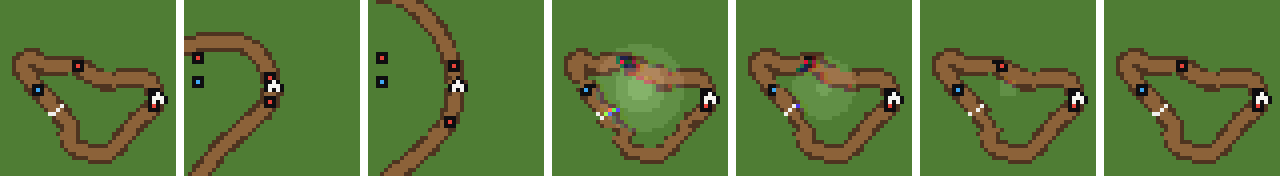
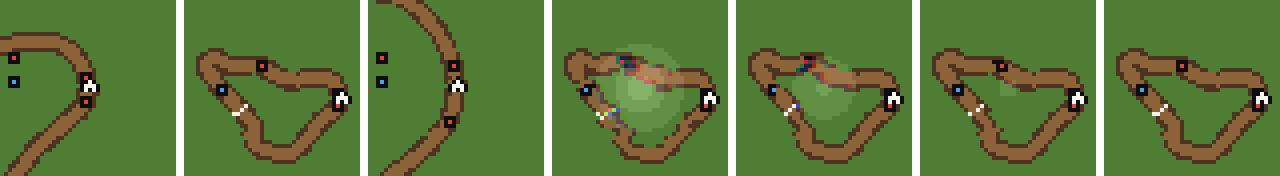
MiniMap 1.2.1: GPS starts at the middle zoom; hand and screen in front
From the owner's first test of 1.2.0:

- Zoom: the GPS starts at the middle view and right click goes out,
  in, then back to the middle. Races: lap image zoom 2, 1, 4. Open
  World: ViewTiles, twice that, half that; Race keeps tiles out to the
  widest view shown.
- The pointing hand sank behind the screen: Grabber rests the hand
  for a Clickable (no Grabbable) exactly on the collider's plane. The
  collider now sits on a child 0.1 in front of the screen, the offset
  most levers give the hand.
- The screen fought its casing when the camera turned: the two were
  in one plane, and the dash's lit sprites write depth. The screen now
  stands 0.02 in front, toward the cockpit camera.

Claude-Session: https://claude.ai/code/session_011prJR5CAuVuxhGnB8XutU5

Changed region(s): [[0.0, 0.1705, 0.2812, 1.0]]

diff --git a/MiniMap/src/GpsScreen.cs b/MiniMap/src/GpsScreen.cs
@@ -11,7 +11,12 @@ namespace HalfGripMiniMap
 	/// and place on the dash can be tuned without restarting.
 	///
 	/// The cockpit hand can poke the screen as it can the main menu's: a left click only taps it (the menu's tap, see
-	/// <see cref="PixelMap.Tap"/>, and its sound), a right click taps it and steps to the next of <see cref="Zooms"/> views.
+	/// <see cref="PixelMap.Tap"/>, and its sound), a right click taps it and steps to the next of <see cref="Zooms"/> views: from the
+	/// middle one out, then in, then back.
+	///
+	/// The dash's sprites are lit and write depth, so parts in the same plane fight once the camera turns (looking over a shoulder): the
+	/// game keeps its stacked parts apart in depth, and so the screen stands a little in front of its casing. For the same reason the
+	/// touch target stands in front of the screen: the hand pointing at a clickable rests on its plane.
 	/// </summary>
 	internal sealed class GpsScreen : MonoBehaviour
 	{
@@ -32,11 +37,24 @@ namespace HalfGripMiniMap
 		private bool failed;
 		private float tappedAt = float.NegativeInfinity;
 
-		/// <summary>The views a right click steps through: the whole lap (in the Open World, <c>OpenWorld.ViewTiles</c> across), then two and four times closer, round the car.</summary>
+		/// <summary>
+		/// The views a right click steps through, the first shown first: in races the lap twice the size of the whole lap round the car,
+		/// then the whole lap, then four times; in the Open World <c>OpenWorld.ViewTiles</c> across, then twice and half that.
+		/// </summary>
 		private const int Zooms = 3;
+		private static readonly int[] LapZooms = { 2, 1, 4 };
+		private static readonly float[] WorldZooms = { 1f, 0.5f, 2f };
+		private static readonly string[] ZoomNames = { "middle", "out", "in" };
 		/// <summary>The view the GPS shows, kept from race to race for the session (not saved), like the screen minimap's K.</summary>
 		private static int zoomLevel;
-		private static int Zoom => 1 << zoomLevel;
+
+		/// <summary>How many times wider than <c>OpenWorld.ViewTiles</c> the GPS shows the Open World now: the tiles <see cref="Race"/> keeps must reach that far.</summary>
+		internal static float WorldWiden => 1f / WorldZooms[zoomLevel];
+
+		/// <summary>World distance the screen stands in front of its casing: well under a cockpit pixel, but clear of the depth buffer's precision.</summary>
+		private const float ScreenLift = 0.02f;
+		/// <summary>World distance the touch target stands in front of the screen, where the pointing hand rests: what most of the game's levers give the hand (Grabbable.handIndicatorCameraOffset).</summary>
+		private const float TouchLift = 0.1f;
 
 		private void Start()
 		{
@@ -155,15 +173,21 @@ namespace HalfGripMiniMap
 			map.Blank(NoSignal);
 			map.Upload();
 			screenSprite = Sprite.Create(map.Texture, new Rect(0, 0, screen, screen), new Vector2(0.5f, 0.5f), ScreenDetail / texel, 0, SpriteMeshType.FullRect);
-			Vector3 middle = foot + new Vector3((casing.ScreenX + hole * 0.5f - casing.Width * 0.5f) * texel, (casing.ScreenY + hole * 0.5f) * texel, 0f);
+			float toward = Toward();
+			float perUnit = Mathf.Max(1e-5f, Mathf.Abs(transform.lossyScale.z));
+			Vector3 middle = foot + new Vector3((casing.ScreenX + hole * 0.5f - casing.Width * 0.5f) * texel, (casing.ScreenY + hole * 0.5f) * texel, toward * ScreenLift / perUnit);
 			screenPart = Part("Screen", screenSprite, material, middle, 1, layer).gameObject;
-			// Exactly the screen, no wider (the hand's grab tolerance scales hitBoxExpand), in the dash's plane like its levers' colliders.
-			InteriorSquareCollider target = screenPart.AddComponent<InteriorSquareCollider>();
+			// Exactly the screen, no wider (the hand's grab tolerance scales hitBoxExpand), facing the way the dash's levers' colliders do.
+			GameObject touch = new GameObject("Touch");
+			touch.layer = layer;
+			touch.transform.SetParent(screenPart.transform, false);
+			touch.transform.localPosition = new Vector3(0f, 0f, toward * TouchLift / perUnit);
+			InteriorSquareCollider target = touch.AddComponent<InteriorSquareCollider>();
 			target.width = target.height = hole * texel;
 			target.hitBoxExpand = 0f;
 			target.localNormalPlane = Vector3.forward;
 			target.sortingLayer = 0;
-			GpsButton button = screenPart.AddComponent<GpsButton>();
+			GpsButton button = touch.AddComponent<GpsButton>();
 			button.attachedCollider = target;
 			button.Left = Tap;
 			button.Right = NextZoom;
@@ -207,6 +231,24 @@ namespace HalfGripMiniMap
 				}
 			}
 			Mod.Info(text.ToString());
+		}
+
+		/// <summary>
+		/// Which way along the GPS's own z the cockpit camera is, +1 or -1: in front of the dash is toward it. The game's dash has it at -z
+		/// (parts drawn over others sit at lower z), which is the answer when there is no camera to ask.
+		/// </summary>
+		private float Toward()
+		{
+			Grabber hand = FindFirstObjectByType<Grabber>();
+			Camera cam = hand != null && hand.viewCamera != null ? hand.viewCamera : Camera.main;
+			if (cam == null)
+			{
+				Mod.Info("GPS: no cockpit camera found; the dash's front is taken to be -z");
+				return -1f;
+			}
+			float z = transform.InverseTransformPoint(cam.transform.position).z;
+			Mod.Info("GPS: the cockpit camera '" + cam.name + "' is at " + z.ToString("0.00") + " along the GPS's z");
+			return z > 0f ? 1f : -1f;
 		}
 
 		private SpriteRenderer Part(string name, Sprite sprite, Material material, Vector3 position, int above, int layer)
@@ -255,11 +297,11 @@ namespace HalfGripMiniMap
 				Race.Tick();
 				if (Race.Ready && Race.OpenWorld)
 				{
-					map.DrawLocal(OpenWorldLink.Tiles, Race.Palette, Race.Heading, Race.MetresPerPixel(map, Zoom), Race.Player, Race.Cars);
+					map.DrawLocal(OpenWorldLink.Tiles, Race.Palette, Race.Heading, Race.MetresPerPixel(map, WorldZooms[zoomLevel]), Race.Player, Race.Cars);
 				}
 				else if (Race.Ready)
 				{
-					map.Draw(lap.Get(map.Size, map.Room, Zoom), Race.Palette, Race.Heading, Race.Player, Race.Cars);
+					map.Draw(lap.Get(map.Size, map.Room, LapZooms[zoomLevel]), Race.Palette, Race.Heading, Race.Player, Race.Cars);
 				}
 				else
 				{
@@ -287,7 +329,7 @@ namespace HalfGripMiniMap
 		{
 			Tap();
 			zoomLevel = (zoomLevel + 1) % Zooms;
-			Mod.Info("GPS: zoom " + Zoom + (zoomLevel == 0 ? " (the whole view)" : " (round the car)"));
+			Mod.Info("GPS: zoomed " + ZoomNames[zoomLevel] + " (lap " + LapZooms[zoomLevel] + "x, Open World " + (Mod.ViewTiles.Value / WorldZooms[zoomLevel]).ToString("0.0") + " tiles across)");
 		}
 
 		/// <summary>Takes down the parts, textures and sprites of the last build.</summary>

diff --git a/MiniMap/src/Race.cs b/MiniMap/src/Race.cs
@@ -38,10 +38,10 @@ namespace HalfGripMiniMap
 
 		/// <summary>
 		/// Metres to a pixel of a map showing the Open World: <c>OpenWorld.ViewTiles</c> tiles across the inside of its rim, so the screen
-		/// minimap and the GPS show the same stretch of country at their own resolutions; <paramref name="zoom"/> times less at the GPS's
-		/// closer views.
+		/// minimap and the GPS show the same stretch of country at their own resolutions; <paramref name="zoom"/> times closer at the GPS's
+		/// other views (0.5 is twice as far out).
 		/// </summary>
-		internal static float MetresPerPixel(PixelMap map, int zoom = 1) => Mod.ViewTiles.Value * OpenWorldLink.Tiles.TileSize / Mathf.Max(8, map.Size - 2 * map.Room) / Mathf.Max(1, zoom);
+		internal static float MetresPerPixel(PixelMap map, float zoom = 1f) => Mod.ViewTiles.Value * OpenWorldLink.Tiles.TileSize / Mathf.Max(8, map.Size - 2 * map.Room) / Mathf.Max(0.1f, zoom);
 
 		internal static void OnSceneLoaded(Scene loaded)
 		{
@@ -70,8 +70,9 @@ namespace HalfGripMiniMap
 				Gather();
 				if (OpenWorld)
 				{
-					// Corners of the square GPS reach half as far again as its sides, and a pixel's looks a little past them.
-					OpenWorldLink.Update(Player, Mod.ViewTiles.Value * OpenWorldLink.Tiles.TileSize * 0.75f + 10f);
+					// Corners of the square GPS reach half as far again as its sides, and a pixel's looks a little past them. The GPS
+					// zoomed out shows more.
+					OpenWorldLink.Update(Player, Mod.ViewTiles.Value * Mathf.Max(1f, GpsScreen.WorldWiden) * OpenWorldLink.Tiles.TileSize * 0.75f + 10f);
 				}
 			}
 		}

diff --git a/tools/preview/Program.cs b/tools/preview/Program.cs
@@ -27,7 +27,7 @@ namespace HalfGripMiniMap
 	///   gps-dash.png  the GPS as on the dash (38 casing pixels wide, the screen at twice that resolution), 4x
 	///   gps-icon.png  the shop icon (26x24, as Gps.IconWidth/IconHeight), 6x
 	///   icon.png      the mod's picture for the mod manager, 128x128: copy it to MiniMap/icon.png
-	///   gps-zoom.png  the GPS screen at its three zooms, then a tap on it 0, 0.1, 0.2 and 0.35 s on, 4x
+	///   gps-zoom.png  the GPS screen at its three zooms in the order a right click steps (2x, whole lap, 4x), then a tap on it 0, 0.1, 0.2 and 0.35 s on, 4x
 	/// and checks that the shop icon is not blank. docs/gps.png was put together from the first two.
 	/// </summary>
 	internal static class Program
@@ -100,12 +100,12 @@ namespace HalfGripMiniMap
 			Png.Save(path, px, w, h, 4);
 		}
 
-		/// <summary>The dash GPS's screen at zooms 1, 2 and 4, then at zoom 1 at four moments of a tap, side by side with a gap of 2.</summary>
+		/// <summary>The dash GPS's screen at zooms 2 (the first view), 1 and 4, then at zoom 1 at four moments of a tap, side by side with a gap of 2.</summary>
 		private static void Zooms(List<Vector3> pts, string path)
 		{
 			int screen = (38 - GpsArt.Dash.ExtraWidth) * 2;
 			List<PixelMap> maps = new List<PixelMap>();
-			foreach (int zoom in new[] { 1, 2, 4 })
+			foreach (int zoom in new[] { 2, 1, 4 })
 			{
 				maps.Add(Screen(pts, screen, 260, zoom));
 			}

diff --git a/CLAUDE.md b/CLAUDE.md
@@ -19,7 +19,7 @@ player's car, with a marker per car (in the Open World mod, the country round th
 | `Race.cs` | Shared by both maps: finds the race's `TrackManager`, bumps `Version` when `lapManager.trackLine` or the colours change, gathers the cars each frame; `LapCache` keeps each map's `TrackImage` |
 | `MiniMapHud.cs` | The screen minimap: a round `PixelMap` on an overlay canvas in a corner |
 | `Gps.cs` | The GPS item: a clone of the magnet item (no code of its own, MEDIUM, module mount) with its exterior and stats stripped, a new interior prefab and a drawn icon |
-| `GpsScreen.cs` | The GPS on the dash (made by the game's `LoadoutSpawner` from the prefab): measures the cockpit's pixel size (median over the dash's sprites, about 0.05 units), then a casing sprite at that size and a square `PixelMap` screen at twice its resolution, the screen in the unlit sprite material, the casing in its own copy of the lit `SpriteLit` with its texture set (the Lit shader reads the material's `_BaseMap`, so each dash sprite has its own copy); the zoom (1, 2, 4, session only) and the tap's time |
+| `GpsScreen.cs` | The GPS on the dash (made by the game's `LoadoutSpawner` from the prefab): measures the cockpit's pixel size (median over the dash's sprites, about 0.05 units), then a casing sprite at that size and a square `PixelMap` screen at twice its resolution, the screen in the unlit sprite material, the casing in its own copy of the lit `SpriteLit` with its texture set (the Lit shader reads the material's `_BaseMap`, so each dash sprite has its own copy); the zoom (middle, out, in; session only), the tap's time; the screen stands 0.02 in front of the casing and the touch collider 0.1 in front of the screen |
 | `GpsTap.cs` | Poking the GPS: `GpsButton`, the game's own `Clickable` (with an `InteriorSquareCollider` the size of the screen, put on by `GpsScreen`), which the cockpit hand clicks left (tap) and right (tap and next zoom); and the main menu's `ScreenTap` clip, found among the loaded assets at scene loads and kept in a static field |
 | `GpsArt.cs` | The GPS casing (grey speckled plastic box with top and side faces on a base plate, after the jumper's key cap) and shop icon, drawn as pixel arrays |
 | `TrackImage.cs` | The lap from above in flat palette colours (ground, road, edge lines, start line) at 4x the minimap's resolution, fitted inside the round window |
@@ -102,25 +102,32 @@ loop. While its `MapView.Active` is true, `Race.OpenWorld` is set and both maps 
   `Streamer.MapPicture`). Look at it after any change to the local map.
 - Not done, still open with the owner: zooming out with speed, and a north-up choice (the player's arrow would then have to turn).
 
-## The GPS tap and zoom (1.2.0)
+## The GPS tap and zoom (1.2.0, 1.2.1)
 
 - The main menu's tap is `VhsScreenTap` (sets `_VhsTap` for the full-screen VHS shader, `VhsRendererFeature`) and a VariedSound with
   the clip `ScreenTap` (pitch +-0.5). The shader works on the whole camera image and no race scene has a `VhsEffect` volume, so
   `PixelMap.Tap` redoes it on the map's pixels: bulge, row tear and red/blue split by whole pixels, light in 3 hard steps, eased over
   the menu's 0.45 s, from the screen's middle (the hand points at the screen, not at a place on it).
-- Zoom: `TrackImage.Build(..., zoom)` draws the lap 2 or 4 times bigger with fewer image pixels per map pixel (8/zoom, at most 4), so
+- Zoom: the GPS starts at the middle view; right click goes out, in, back to the middle (lap image zoom 2, 1, 4; Open World
+  `ViewTiles` times 1, 2, 0.5, and `Race` keeps tiles out to the widest shown). `TrackImage.Build(..., zoom)` draws the lap 2 or 4 times bigger with fewer image pixels per map pixel (8/zoom, at most 4), so
   the image is 4 times the whole lap's at either closer view; `PixelMap.Draw` then centres on the player and pins far cars to the
   rim. Zoom 1 is byte-identical to 1.1.0 (checked with `tools/preview`). Open World: `MetresPerPixel(map, zoom)`.
+- Depth: the dash's lit sprites write depth, so the GPS's screen and casing in one plane fought when the camera turned (owner's
+  first test). The game keeps its stacked parts apart in depth (toward the camera is -z on the dash); the screen now stands 0.02
+  world units in front of the casing, the way found from the cockpit camera (`Grabber.viewCamera`). The hand pointing at a
+  `Clickable` with no `Grabbable` rests exactly on the collider's plane (`Grabber.TowardCamera(..., 0)`), so it sank behind the
+  screen: the collider is on a child `Touch` 0.1 in front of the screen (the levers' `handIndicatorCameraOffset`).
 
 ## Status (keep current)
 
-- **Released:** 1.1.0 on `main` (PR #11, merged): Open World mode for both maps.
-- **Open:** 1.2.0 on `claude/vibrant-turing-3uafvm`: poke the GPS (left click taps it, right click taps and zooms 1x/2x/4x, in races
-  and the Open World), PR #13. Compiles; preview pictures checked. Not yet tested in game.
-- **Waiting on the owner:** an in-game test of 1.2.0: does the hand turn to its pointing pose over the GPS screen and do both clicks
-  work (also with a gamepad), is the tap sound heard (log: `kept the main menu's tap sound`) and at the cockpit's volume, does the
-  zoom read well in a race and in the Open World. Also still the first Open World test of 1.1.0 (screenshots of both maps, the log
-  should have `linked to the Open World's map` and `an Open World race`).
+- **Released:** 1.2.0 on `main` (PR #13, merged): poke the GPS (left click taps, right click taps and zooms).
+- **Open:** 1.2.1 on `claude/vibrant-turing-3uafvm` (PR below): after the owner's first test of 1.2.0, the GPS starts at the middle
+  view and right click goes out, in, back (done); the hand sank behind the screen after a moment (collider moved in front, done);
+  the screen fought its casing when leaning (screen lifted in front of it, done). Compiles; preview checked; not tested in game.
+- **Waiting on the owner:** an in-game test of 1.2.1: the hand stays in front of the screen, no fighting when looking over a
+  shoulder, the zoom order, the tap sound (log: `kept the main menu's tap sound`), a gamepad if there is one. The log also says
+  where the cockpit camera was found (`the cockpit camera ... along the GPS's z`; it should be negative). Also still the first Open
+  World test (screenshots of both maps; the log should have `linked to the Open World's map` and `an Open World race`).
 - **Open questions for the owner:** zoom out with speed? A north-up option? (Both left out: heading-up, fixed window.)
 - **Known, not yet fixed:** `tools/preview` no longer reproduces the committed `MiniMap/icon.png` exactly (160 pixels differ, round
   the car markers). It was so on `main` before 1.1.0, and 1.1.0's output is byte-identical to the old code's, so the cause is in the

diff --git a/README.md b/README.md
@@ -1,6 +1,6 @@
 # MiniMap for Half Grip
 
-**Version 1.2.0** · for Half Grip Demo 0.418 · needs [HalfGripTools](https://github.com/4l3x4nd3r0/HalfGripTools) 1.0.2 or newer
+**Version 1.2.1** · for Half Grip Demo 0.418 · needs [HalfGripTools](https://github.com/4l3x4nd3r0/HalfGripTools) 1.0.2 or newer
 
 A pixel-art map of the whole lap that turns with your car and shows every racer. Buy a **GPS** for your dash, or switch on the
 **screen minimap**. It works on every map: the game's own, [ProcTrack](https://github.com/htubdawg/ProcTrack)'s procedural maps, and
@@ -18,10 +18,11 @@ the slow-mo buttons. Its screen shows the map: the whole lap turned so the way y
 as red dots and other players as blue dots. It has no other effect, so it costs you a module slot and a little money.
 
 You can poke its screen with the cockpit hand, like the screen in the main menu: the picture bulges, tears and lights up where you
-tap, with the menu's tap sound. A **left click** only taps it. A **right click** taps it and zooms: the whole lap, then two and four
-times closer with your car in the middle (other cars out of sight wait at the rim), then back to the whole lap. In the Open World
-the three zooms are `OpenWorld.ViewTiles` across, then half and a quarter of that. The zoom stays as you left it until you quit the
-game. The screen minimap does not zoom.
+tap, with the menu's tap sound. A **left click** only taps it. A **right click** taps it and zooms. The GPS starts in the middle
+view: twice the size of the whole lap, your car in the middle (other cars out of sight wait at the rim). Right click zooms out to
+the whole lap, again zooms in to four times, and again goes back to the middle. In the Open World the three views are
+`OpenWorld.ViewTiles` across, then twice and half that. The zoom stays as you left it until you quit the game. The screen minimap
+does not zoom.
 
 ![The GPS screen at its three zooms, then a tap on it fading away](docs/gps-zoom.png)
 
@@ -101,7 +102,7 @@ look for `Loaded MiniMap` in `BepInEx\LogOutput.log`.
 |---|---|
 | **K** | Show / hide the screen minimap. The key is only there (in Settings > Controls, where you can rebind it) when `Display.Enabled` is on. |
 | **Left click** on the GPS | Tap its screen |
-| **Right click** on the GPS | Tap its screen and zoom (whole lap, 2x, 4x) |
+| **Right click** on the GPS | Tap its screen and zoom: middle, out, in, back to middle |
 
 ## Settings
 
@@ -119,7 +120,7 @@ saved, so you can change these while the game runs (all but `Display.Enabled`, w
 | `GPS.Width` | `1.9` | Width of the GPS on the dash, in dash units |
 | `GPS.OffsetX`, `GPS.OffsetY` | `0`, `-0.6` | Move the GPS on the dash |
 | `GPS.LitCasing` | `true` | Light the GPS casing like the cockpit (turn it off if the casing does not show) |
-| `OpenWorld.ViewTiles` | `2.5` | In the Open World: how much country both maps show across, in its 250 m tiles (1 to 8) |
+| `OpenWorld.ViewTiles` | `2.5` | In the Open World: how much country both maps show across, in its 250 m tiles (1 to 8); the GPS's middle view |
 | `Debug.VerboseLog` | `false` | Write each map build to the log |
 
 ## Notes
